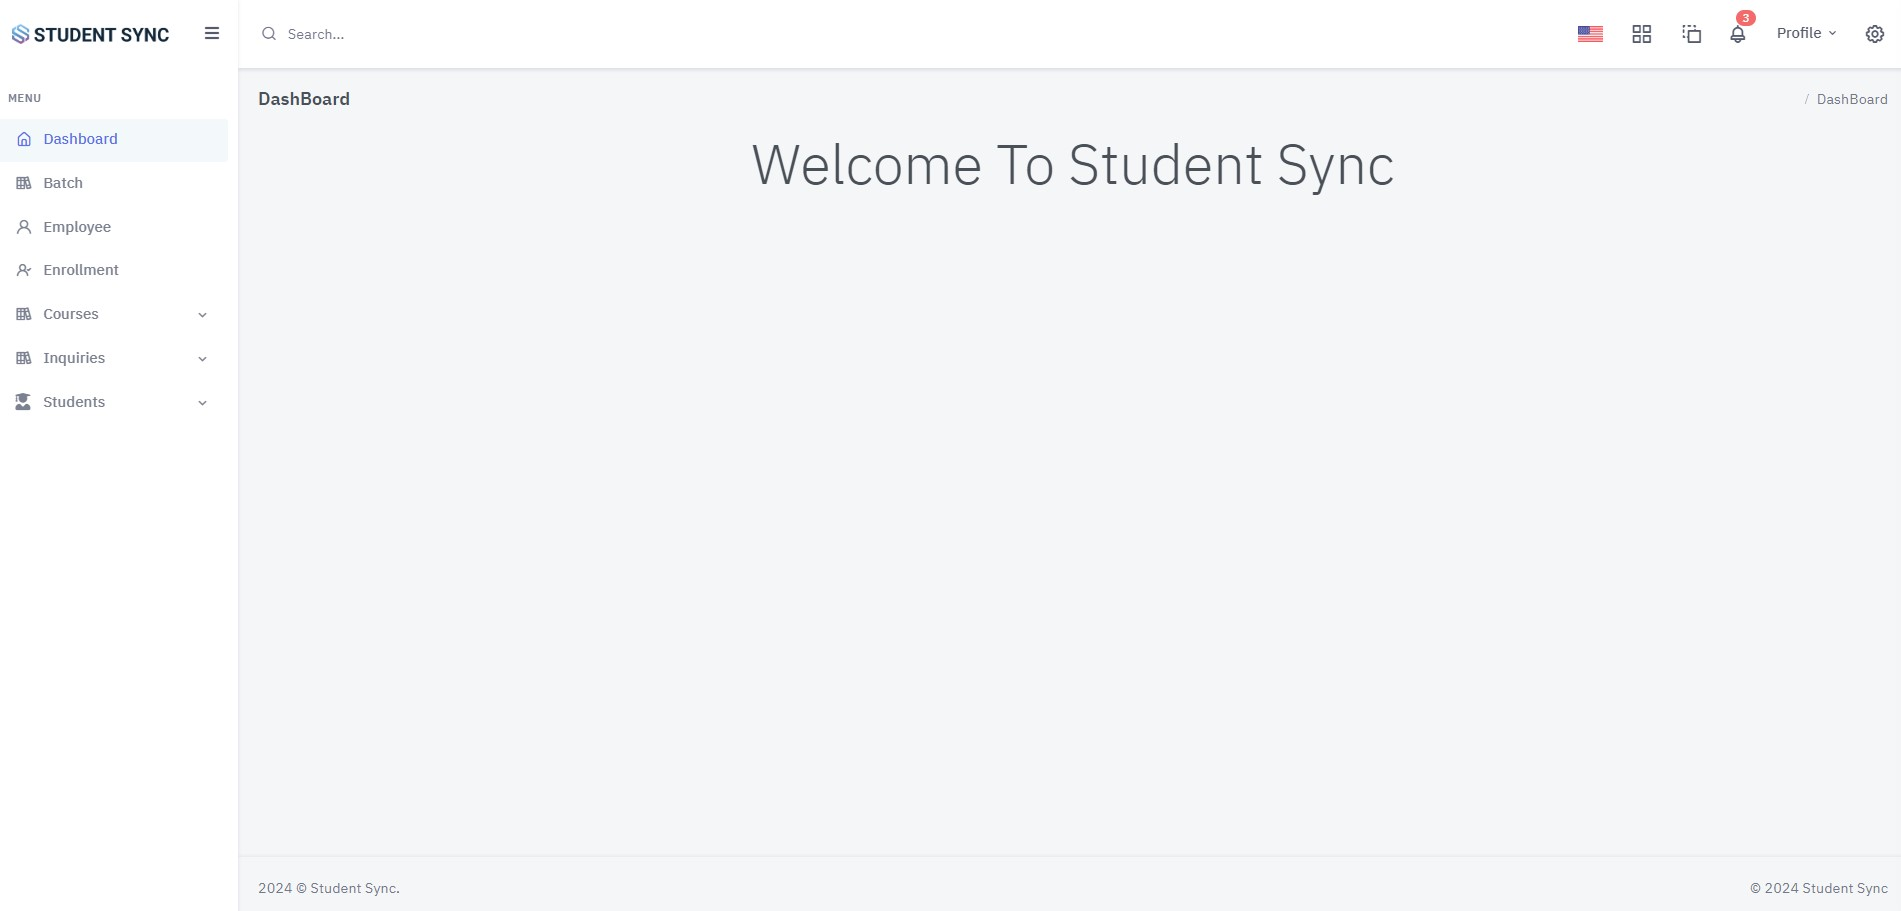
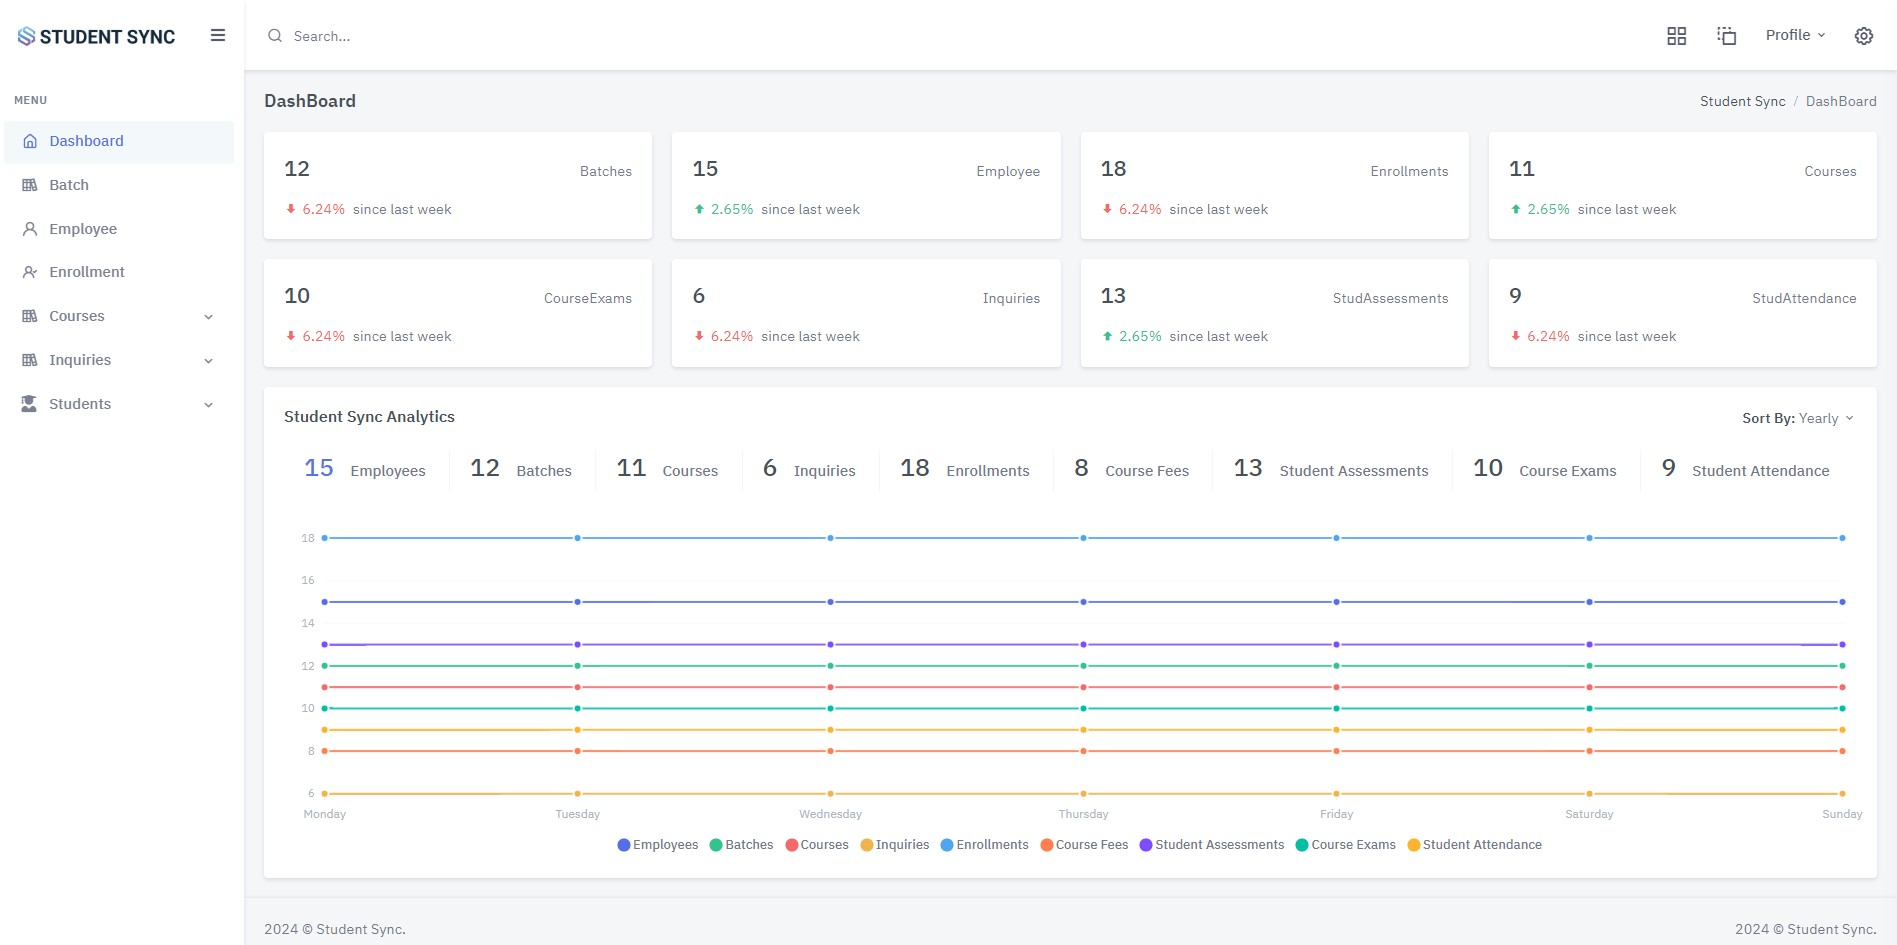
Resolved general issues,Replaced The Dashboard Images Light,Dark,Rtl, implemented charts to dynamically display data, and completed testing for all projects.

diff --git a/StudentSync/Controllers/HomeController.cs b/StudentSync/Controllers/HomeController.cs
@@ -85,13 +85,81 @@
 //}
 
 
+//using Microsoft.AspNetCore.Mvc;
+//using System.Net.Http;
+//using System.Threading.Tasks;
+//using Newtonsoft.Json;
+//using StudentSync.Models;
+//using System.Diagnostics;
+//using Microsoft.AspNetCore.Authorization; // Ensure you have this NuGet package installed
+
+//namespace StudentSync.Controllers
+//{
+//    [Authorize]
+//    public class HomeController : Controller
+//    {
+//        private readonly ILogger<HomeController> _logger;
+//        private readonly HttpClient _httpClient;
+
+//        public HomeController(ILogger<HomeController> logger, HttpClient httpClient)
+//        {
+//            _logger = logger;
+//            _httpClient = httpClient;
+//        }
+
+//        public async Task<IActionResult> Index()
+//        {
+//            var totalEmployees = await GetApiDataAsync("ApiController/total-employees");
+//            var totalCourses = await GetApiDataAsync("ApiController/total-courses");
+//            var totalInquiries = await GetApiDataAsync("ApiController/total-inquiries");
+//            var totalBatches = await GetApiDataAsync("ApiController/total-batches");
+//            var totalEnrollments = await GetApiDataAsync("ApiController/total-enrollments");
+//            var totalCourseFees = await GetApiDataAsync("ApiController/total-course-fees");
+//            var totalStudentAssessments = await GetApiDataAsync("ApiController/total-student-assessments");
+//            var totalCourseExams = await GetApiDataAsync("ApiController/total-course-exams");
+//            var totalStudentAttendance = await GetApiDataAsync("ApiController/total-student-attendance");
+
+//            ViewBag.TotalEmployees = totalEmployees;
+//            ViewBag.TotalCourses = totalCourses;
+//            ViewBag.TotalInquiries = totalInquiries;
+//            ViewBag.TotalBatches = totalBatches;
+//            ViewBag.TotalEnrollments = totalEnrollments;
+//            ViewBag.TotalCourseFees = totalCourseFees;
+//            ViewBag.TotalStudentAssessments = totalStudentAssessments;
+//            ViewBag.TotalCourseExams = totalCourseExams;
+//            ViewBag.TotalStudentAttendance = totalStudentAttendance;
+
+//            return View();
+//        }
+
+//        private async Task<int> GetApiDataAsync(string url)
+//        {
+//            HttpResponseMessage response = await _httpClient.GetAsync(url);
+//            response.EnsureSuccessStatusCode();
+//            var jsonResponse = await response.Content.ReadAsStringAsync();
+//            return JsonConvert.DeserializeObject<int>(jsonResponse); // Adjust according to the actual data type returned
+//        }
+
+//        public IActionResult Privacy()
+//        {
+//            return View();
+//        }
+
+//        [ResponseCache(Duration = 0, Location = ResponseCacheLocation.None, NoStore = true)]
+//        public IActionResult Error()
+//        {
+//            return View(new ErrorViewModel { RequestId = Activity.Current?.Id ?? HttpContext.TraceIdentifier });
+//        }
+//    }
+//}
+
 using Microsoft.AspNetCore.Mvc;
 using System.Net.Http;
 using System.Threading.Tasks;
 using Newtonsoft.Json;
 using StudentSync.Models;
 using System.Diagnostics;
-using Microsoft.AspNetCore.Authorization; // Ensure you have this NuGet package installed
+using Microsoft.AspNetCore.Authorization;
 
 namespace StudentSync.Controllers
 {
@@ -119,6 +187,20 @@ namespace StudentSync.Controllers
             var totalCourseExams = await GetApiDataAsync("ApiController/total-course-exams");
             var totalStudentAttendance = await GetApiDataAsync("ApiController/total-student-attendance");
 
+            var analyticsData = new
+            {
+                totalEmployees,
+                totalCourses,
+                totalInquiries,
+                totalBatches,
+                totalEnrollments,
+                totalCourseFees,
+                totalStudentAssessments,
+                totalCourseExams,
+                totalStudentAttendance
+            };
+
+            ViewBag.AnalyticsData = JsonConvert.SerializeObject(analyticsData);
             ViewBag.TotalEmployees = totalEmployees;
             ViewBag.TotalCourses = totalCourses;
             ViewBag.TotalInquiries = totalInquiries;
@@ -137,7 +219,7 @@ namespace StudentSync.Controllers
             HttpResponseMessage response = await _httpClient.GetAsync(url);
             response.EnsureSuccessStatusCode();
             var jsonResponse = await response.Content.ReadAsStringAsync();
-            return JsonConvert.DeserializeObject<int>(jsonResponse); // Adjust according to the actual data type returned
+            return JsonConvert.DeserializeObject<int>(jsonResponse);
         }
 
         public IActionResult Privacy()
@@ -152,3 +234,4 @@ namespace StudentSync.Controllers
         }
     }
 }
+
